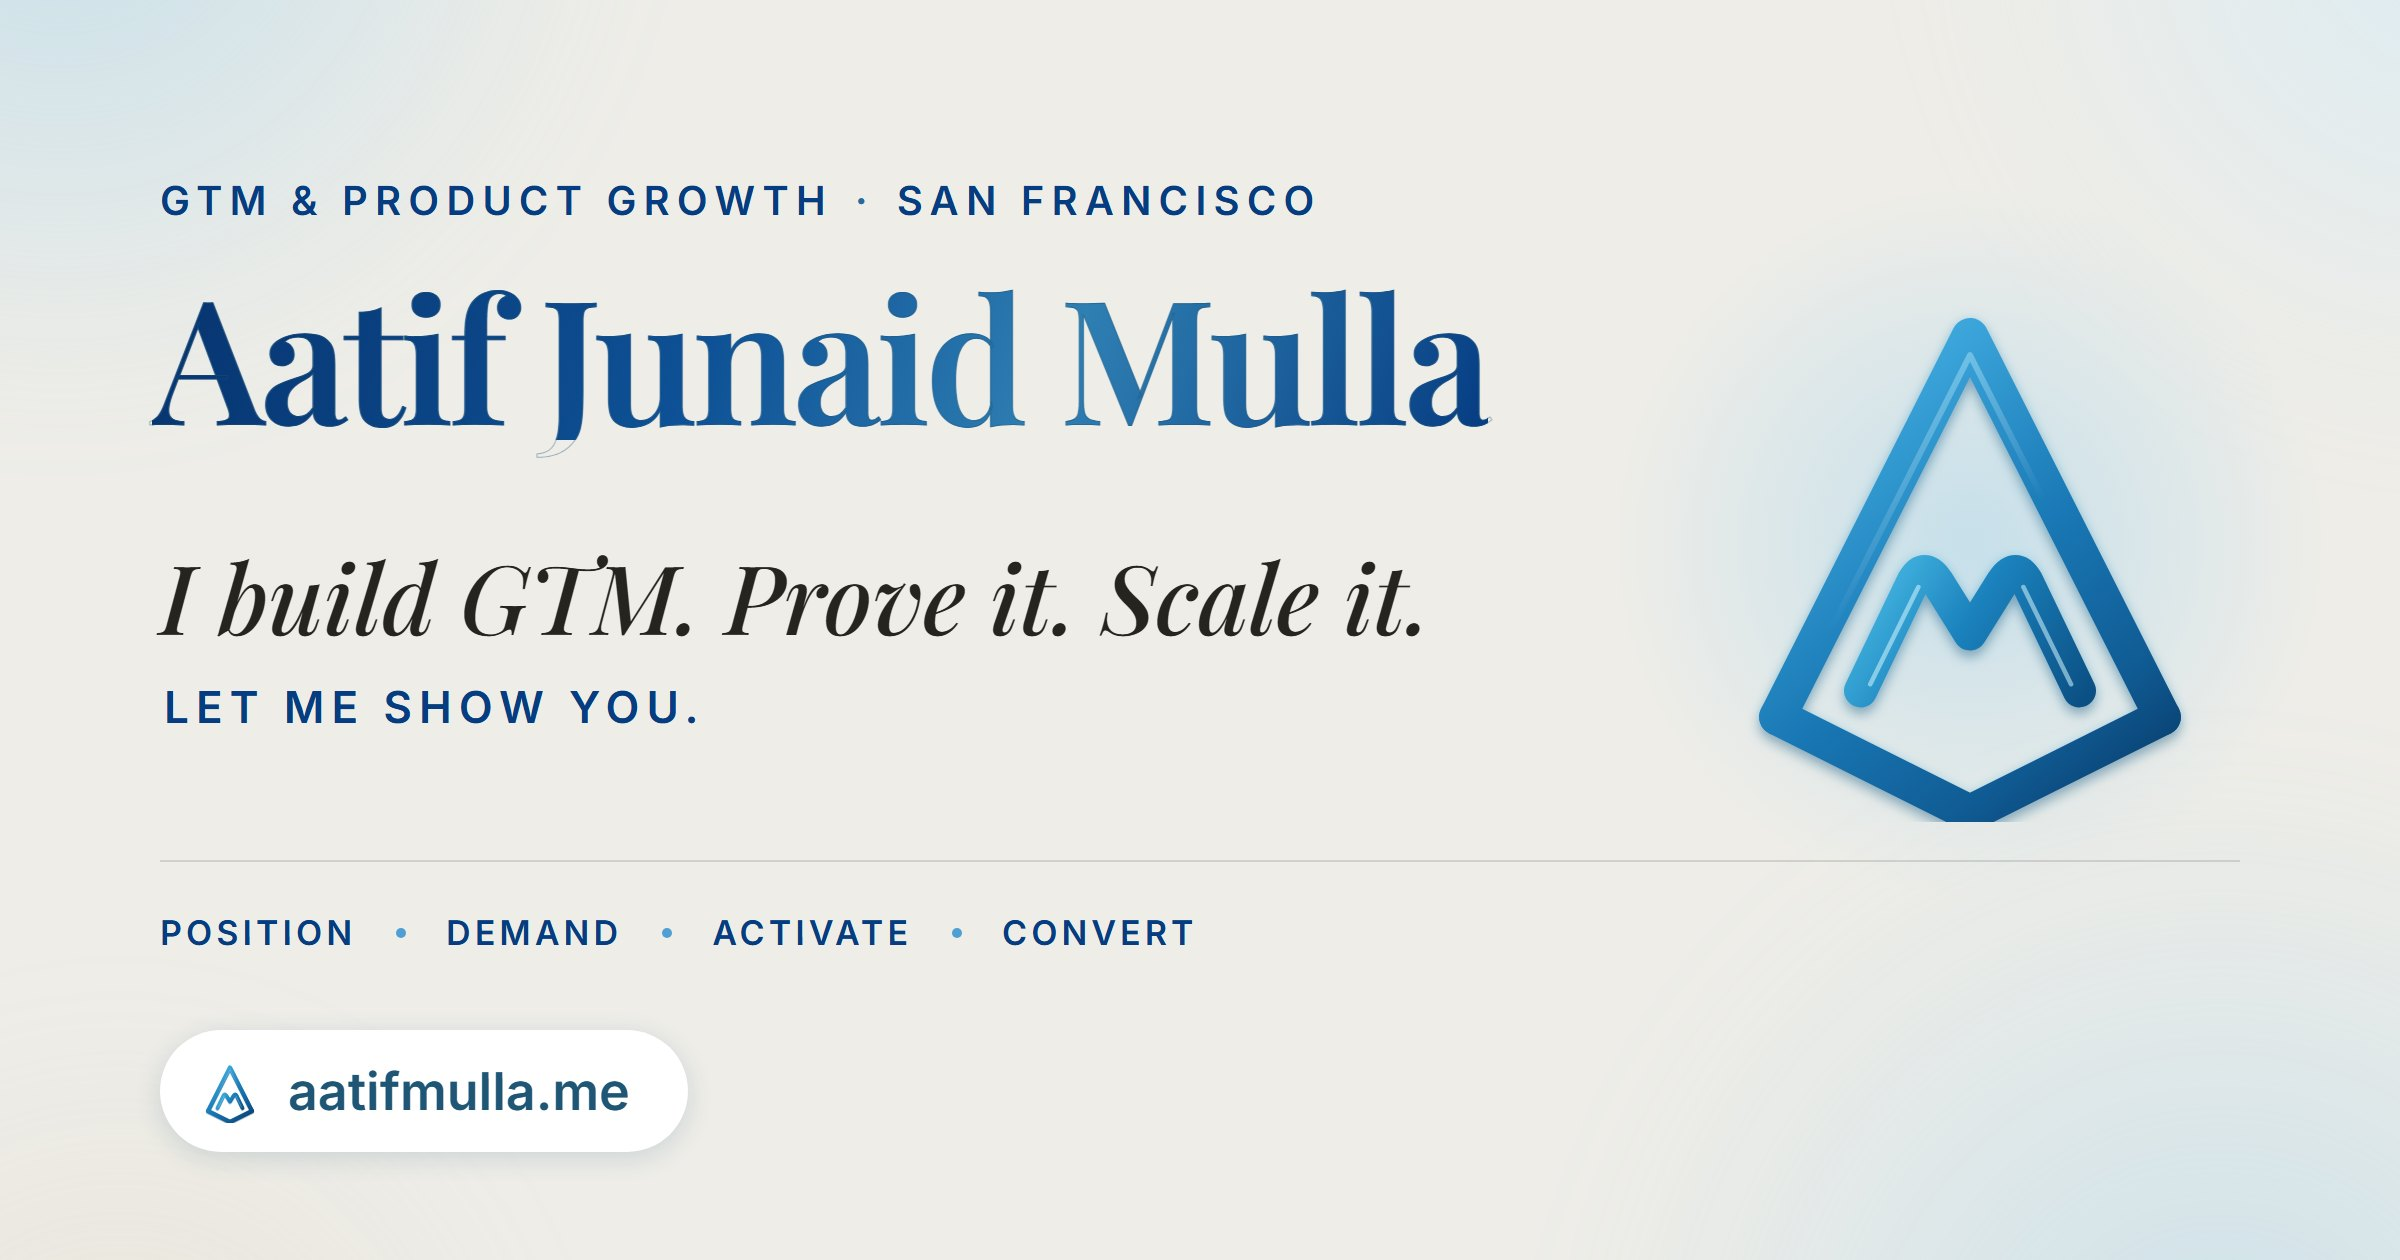
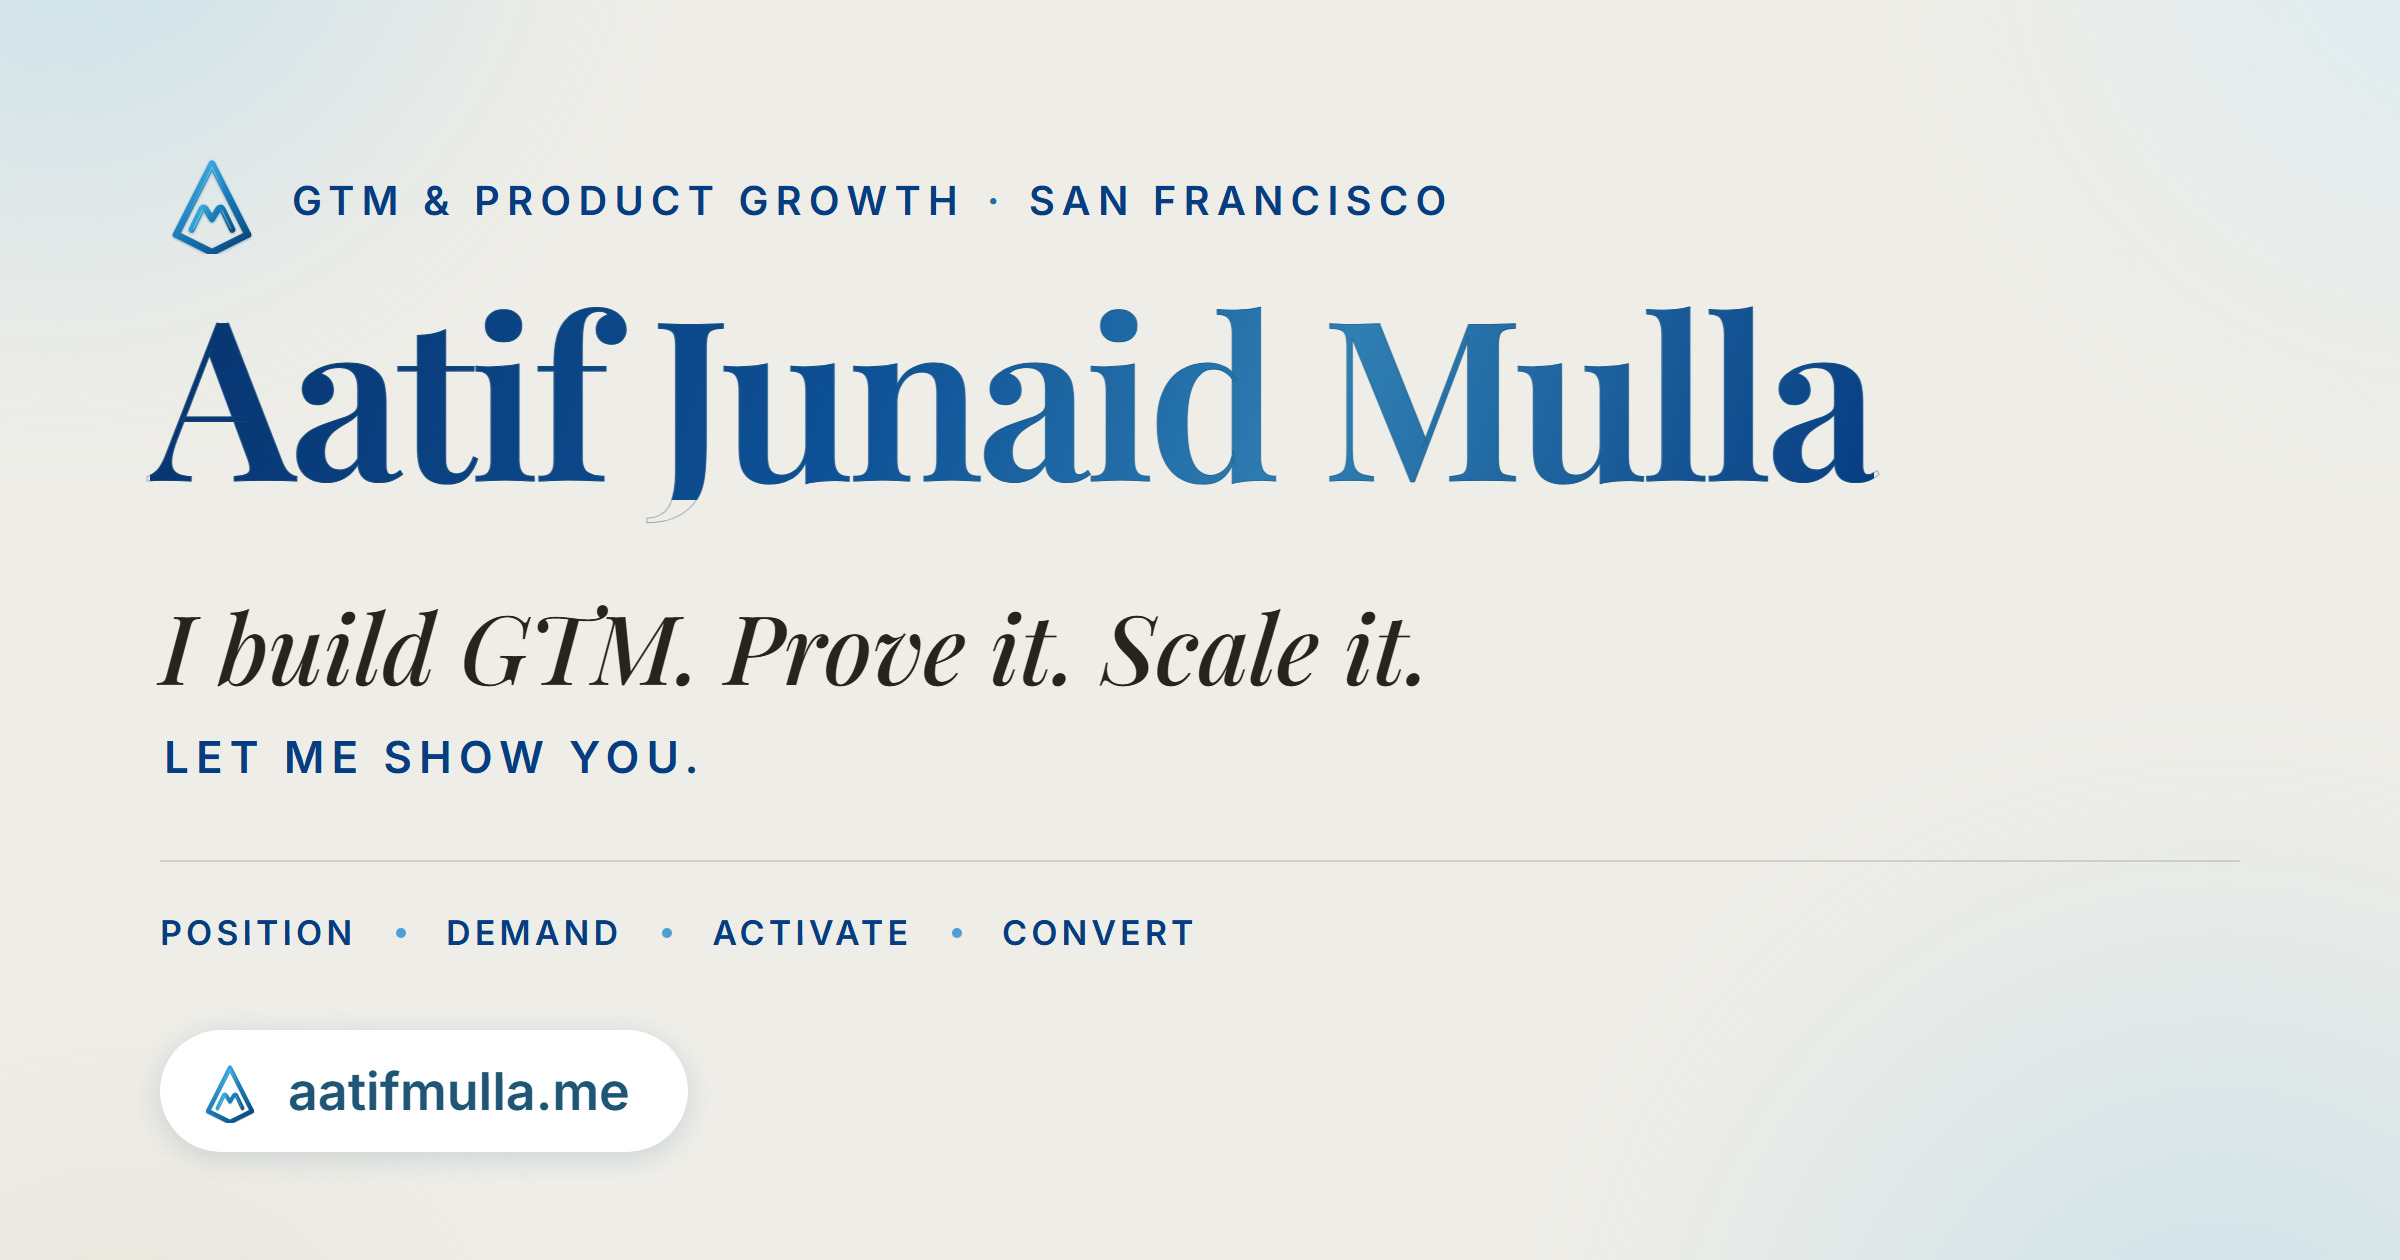
Share card: small mark top-left beside the kicker, larger name, higher JPEG quality
The large right-hand mark is gone. The mark sits at 104px top-left next to
the kicker, mirroring the site header and the tab icon. Name up from 172px
to 222px. Same 2400 by 1260, JPEG quality 92 with full chroma so LinkedIn's
downscale keeps more edge. og:image moves to v=7.

diff --git a/gtm-systems.html b/gtm-systems.html
@@ -11,7 +11,7 @@
   <meta property="og:url" content="https://aatifmulla.me/gtm-systems.html" />
   <meta property="og:title" content="Designing GTM Systems That Keep Humans in Control | Aatif Junaid Mulla" />
   <meta property="og:description" content="An n8n lifecycle engine that turns public market signals into cited, human-approved GTM content drafts, with the sanitized workflow export on GitHub." />
-  <meta property="og:image" content="https://aatifmulla.me/og-image.jpg?v=6" />
+  <meta property="og:image" content="https://aatifmulla.me/og-image.jpg?v=7" />
   <meta property="og:image:type" content="image/jpeg" />
   <meta property="og:image:width" content="2400" />
   <meta property="og:image:height" content="1260" />
@@ -20,7 +20,7 @@
   <meta name="twitter:card" content="summary_large_image" />
   <meta name="twitter:title" content="Designing GTM Systems That Keep Humans in Control | Aatif Junaid Mulla" />
   <meta name="twitter:description" content="An n8n lifecycle engine that turns public market signals into cited, human-approved GTM content drafts, with the sanitized workflow export on GitHub." />
-  <meta name="twitter:image" content="https://aatifmulla.me/og-image.jpg?v=6" />
+  <meta name="twitter:image" content="https://aatifmulla.me/og-image.jpg?v=7" />
 
   <meta name="theme-color" content="#EEEDE8" />
   <link rel="canonical" href="https://aatifmulla.me/gtm-systems.html" />
@@ -42,7 +42,7 @@
     "url": "https://aatifmulla.me/gtm-systems.html",
     "datePublished": "2026-09-01T09:00:00-07:00",
     "dateModified": "2026-09-07T18:00:00-07:00",
-    "image": "https://aatifmulla.me/og-image.jpg?v=6",
+    "image": "https://aatifmulla.me/og-image.jpg?v=7",
     "author": {
       "@type": "Person",
       "@id": "https://aatifmulla.me/#person",

diff --git a/field-program.html b/field-program.html
@@ -11,7 +11,7 @@
   <meta property="og:url" content="https://aatifmulla.me/field-program.html" />
   <meta property="og:title" content="Running a GTM Field Program from Zero | Aatif Junaid Mulla" />
   <meta property="og:description" content="How I built a first go-to-market field program from zero: filling a room with 36 senior product marketers using a design partner network." />
-  <meta property="og:image" content="https://aatifmulla.me/og-image.jpg?v=6" />
+  <meta property="og:image" content="https://aatifmulla.me/og-image.jpg?v=7" />
   <meta property="og:image:type" content="image/jpeg" />
   <meta property="og:image:width" content="2400" />
   <meta property="og:image:height" content="1260" />
@@ -20,7 +20,7 @@
   <meta name="twitter:card" content="summary_large_image" />
   <meta name="twitter:title" content="Running a GTM Field Program from Zero | Aatif Junaid Mulla" />
   <meta name="twitter:description" content="How I built a first go-to-market field program from zero: filling a room with 36 senior product marketers using a design partner network." />
-  <meta name="twitter:image" content="https://aatifmulla.me/og-image.jpg?v=6" />
+  <meta name="twitter:image" content="https://aatifmulla.me/og-image.jpg?v=7" />
 
   <meta name="theme-color" content="#EEEDE8" />
   <link rel="canonical" href="https://aatifmulla.me/field-program.html" />
@@ -42,7 +42,7 @@
     "url": "https://aatifmulla.me/field-program.html",
     "datePublished": "2026-08-20T23:40:15-07:00",
     "dateModified": "2026-09-01T09:00:00-07:00",
-    "image": "https://aatifmulla.me/og-image.jpg?v=6",
+    "image": "https://aatifmulla.me/og-image.jpg?v=7",
     "author": {
       "@type": "Person",
       "@id": "https://aatifmulla.me/#person",

diff --git a/case-studies.html b/case-studies.html
@@ -11,7 +11,7 @@
   <meta property="og:url" content="https://aatifmulla.me/case-studies.html" />
   <meta property="og:title" content="GTM & Product Growth Case Studies | Aatif Junaid Mulla" />
   <meta property="og:description" content="Five go-to-market cases: launching a GTM field program for senior operators, building qualified pipeline, lifecycle automation, and revenue intelligence." />
-  <meta property="og:image" content="https://aatifmulla.me/og-image.jpg?v=6" />
+  <meta property="og:image" content="https://aatifmulla.me/og-image.jpg?v=7" />
   <meta property="og:image:type" content="image/jpeg" />
   <meta property="og:image:width" content="2400" />
   <meta property="og:image:height" content="1260" />
@@ -20,7 +20,7 @@
   <meta name="twitter:card" content="summary_large_image" />
   <meta name="twitter:title" content="GTM & Product Growth Case Studies | Aatif Junaid Mulla" />
   <meta name="twitter:description" content="Five go-to-market cases: launching a GTM field program for senior operators, building qualified pipeline, lifecycle automation, and revenue intelligence." />
-  <meta name="twitter:image" content="https://aatifmulla.me/og-image.jpg?v=6" />
+  <meta name="twitter:image" content="https://aatifmulla.me/og-image.jpg?v=7" />
 
   <meta name="theme-color" content="#EEEDE8" />
   <link rel="canonical" href="https://aatifmulla.me/case-studies.html" />

diff --git a/index.html b/index.html
@@ -11,7 +11,7 @@
   <meta property="og:url" content="https://aatifmulla.me/" />
   <meta property="og:title" content="Aatif Junaid Mulla | GTM & Product Growth" />
   <meta property="og:description" content="Aatif Junaid Mulla builds go-to-market and product growth from zero. Focused on AI-native and B2B SaaS pipeline, positioning, and enterprise growth." />
-  <meta property="og:image" content="https://aatifmulla.me/og-image.jpg?v=6" />
+  <meta property="og:image" content="https://aatifmulla.me/og-image.jpg?v=7" />
   <meta property="og:image:type" content="image/jpeg" />
   <meta property="og:image:width" content="2400" />
   <meta property="og:image:height" content="1260" />
@@ -20,7 +20,7 @@
   <meta name="twitter:card" content="summary_large_image" />
   <meta name="twitter:title" content="Aatif Junaid Mulla | GTM & Product Growth" />
   <meta name="twitter:description" content="Aatif Junaid Mulla builds go-to-market and product growth from zero. Focused on AI-native and B2B SaaS pipeline, positioning, and enterprise growth." />
-  <meta name="twitter:image" content="https://aatifmulla.me/og-image.jpg?v=6" />
+  <meta name="twitter:image" content="https://aatifmulla.me/og-image.jpg?v=7" />
 
   <meta name="theme-color" content="#EEEDE8" />
   <link rel="canonical" href="https://aatifmulla.me/" />

diff --git a/404.html b/404.html
@@ -11,7 +11,7 @@
   <meta property="og:url" content="https://aatifmulla.me/404.html" />
   <meta property="og:title" content="Page Not Found | Aatif Junaid Mulla" />
   <meta property="og:description" content="This page does not exist. Return to Aatif Junaid Mulla's GTM and Product Growth portfolio." />
-  <meta property="og:image" content="https://aatifmulla.me/og-image.jpg?v=6" />
+  <meta property="og:image" content="https://aatifmulla.me/og-image.jpg?v=7" />
   <meta property="og:image:type" content="image/jpeg" />
   <meta property="og:image:width" content="2400" />
   <meta property="og:image:height" content="1260" />
@@ -20,7 +20,7 @@
   <meta name="twitter:card" content="summary_large_image" />
   <meta name="twitter:title" content="Page Not Found | Aatif Junaid Mulla" />
   <meta name="twitter:description" content="This page does not exist. Return to Aatif Junaid Mulla's GTM and Product Growth portfolio." />
-  <meta name="twitter:image" content="https://aatifmulla.me/og-image.jpg?v=6" />
+  <meta name="twitter:image" content="https://aatifmulla.me/og-image.jpg?v=7" />
 
   <meta name="theme-color" content="#EEEDE8" />
   <meta name="referrer" content="strict-origin-when-cross-origin" />
